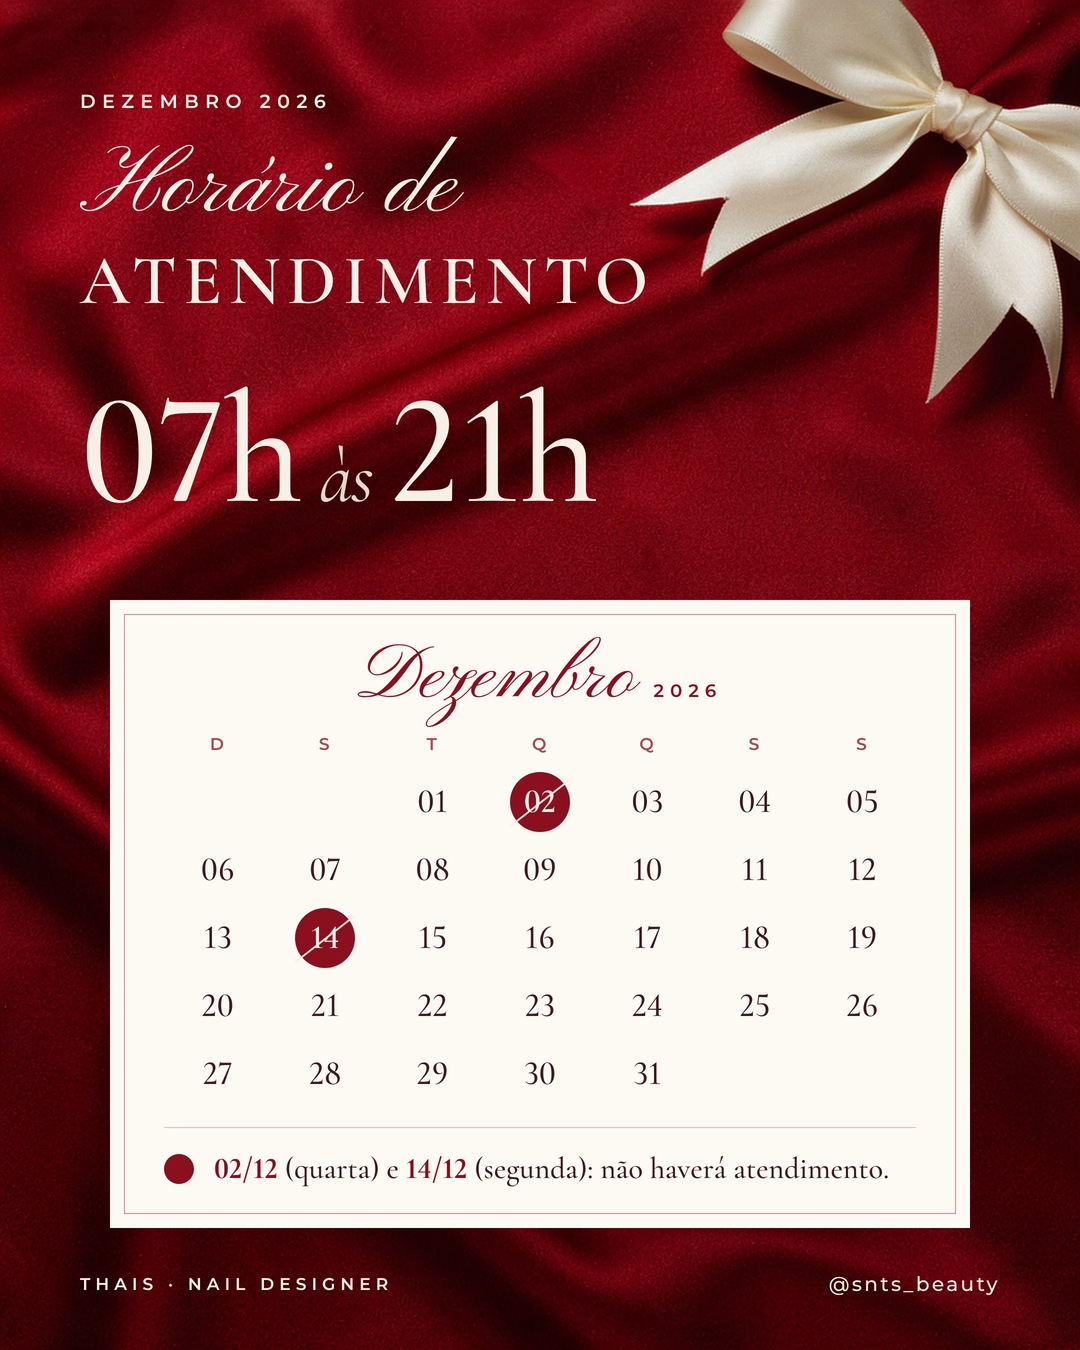
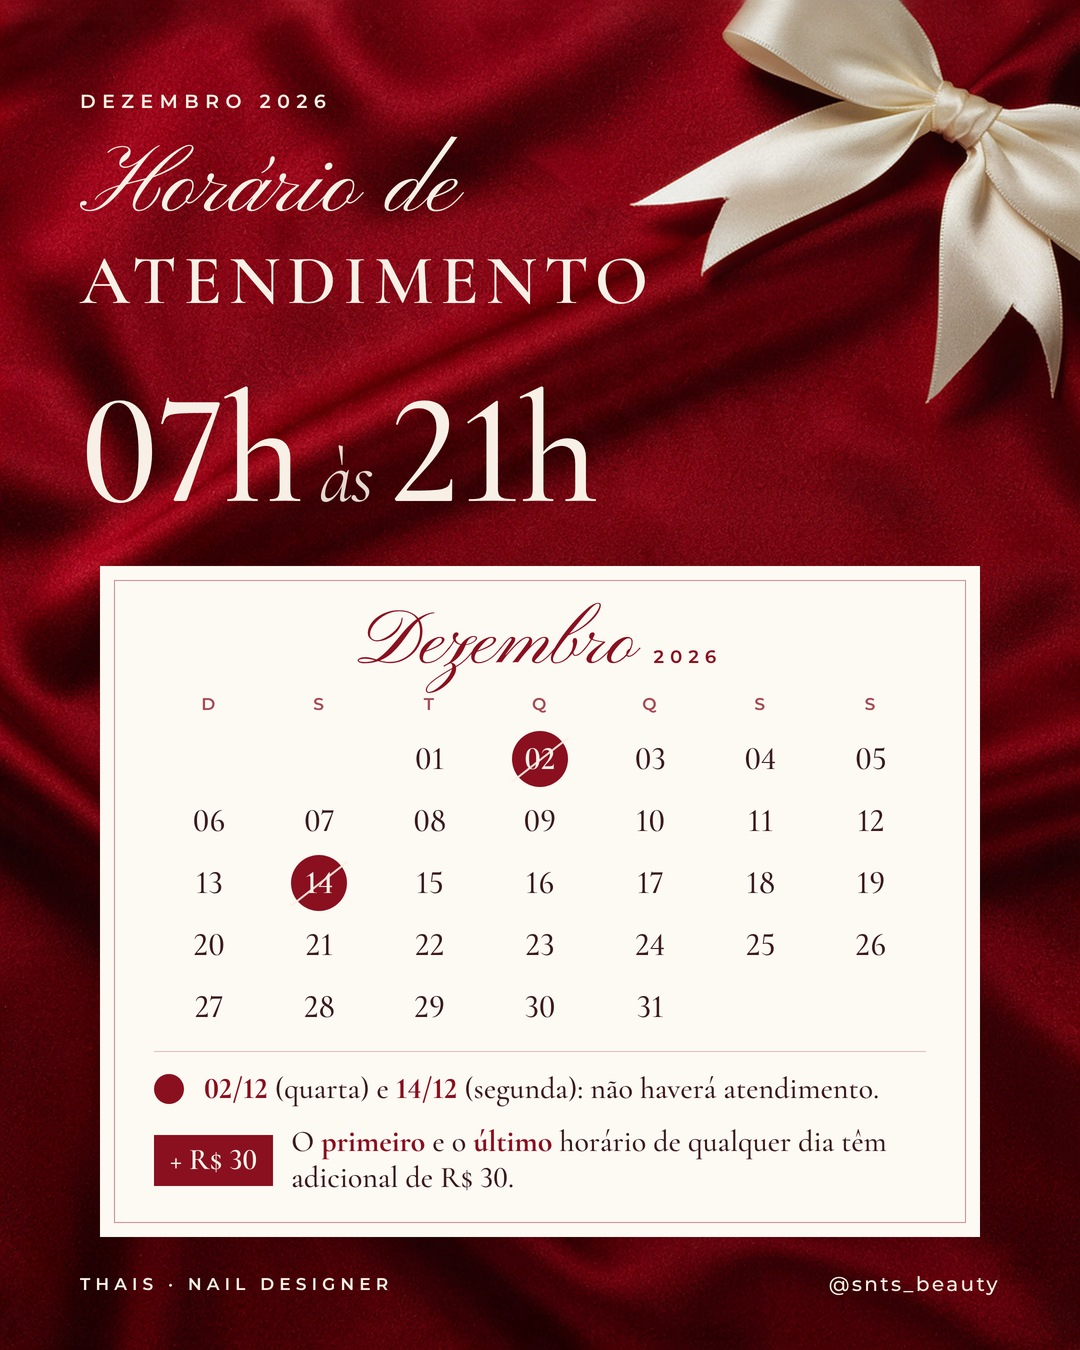
docs: carrossel @snts_beauty, adicional de R$ 30 no primeiro e no último horário
Claude-Session: https://claude.ai/code/session_01C7Fqj9PsLGVunGevFmCeCm

diff --git a/docs/agenda-dezembro-unhas/gerador/style.css b/docs/agenda-dezembro-unhas/gerador/style.css
@@ -71,20 +71,20 @@ body { font-feature-settings: "lnum" 1; font-variant-numeric: lining-nums; font-
 .hor .horas { left: 0; right: 0; top: 372px; text-align: center; color: var(--creme); font: 500 158px/1 var(--serif); letter-spacing: -.01em; }
 .hor .horas em { font: italic 400 76px/1 var(--serif); margin: 0 18px; opacity: .9; }
 .hor .horas-leg { left: 0; right: 0; top: 530px; display: flex; justify-content: center; gap: 250px; color: var(--rose); }
-.cal { position: absolute; left: 110px; right: 110px; top: 600px; background: var(--perola); padding: 40px 54px 40px; box-shadow: 0 30px 60px rgba(40,0,6,.35); }
+.cal { position: absolute; left: 100px; right: 100px; top: 566px; background: var(--perola); padding: 40px 54px 40px; box-shadow: 0 30px 60px rgba(40,0,6,.35); }
 .cal::before { content: ''; position: absolute; inset: 14px; border: 1.5px solid rgba(138,16,32,.45); pointer-events: none; }
-.cal__cab { display: flex; align-items: baseline; justify-content: center; gap: 18px; color: var(--cereja); margin-bottom: 18px; }
+.cal__cab { display: flex; align-items: baseline; justify-content: center; gap: 18px; color: var(--cereja); margin-bottom: 12px; }
 .cal__cab .script { font-size: 78px; }
 .cal__cab .rotulo { font-size: 18px; }
 .cal__grade { display: grid; grid-template-columns: repeat(7, 1fr); row-gap: 6px; text-align: center; }
 .cal__grade .sem { font: 600 17px/1 var(--sans); letter-spacing: .1em; color: var(--cereja); opacity: .75; padding-bottom: 12px; }
-.cal__grade .d { font: 500 34px/62px var(--serif); color: var(--tinta); height: 62px; position: relative; }
+.cal__grade .d { font: 500 33px/56px var(--serif); color: var(--tinta); height: 56px; position: relative; }
 .cal__grade .d.fora { visibility: hidden; }
 .cal__grade .d.folga { color: var(--creme); }
-.cal__grade .d span { position: relative; display: inline-block; width: 60px; height: 60px; line-height: 60px; border-radius: 50%; }
+.cal__grade .d span { position: relative; display: inline-block; width: 56px; height: 56px; line-height: 56px; border-radius: 50%; }
 .cal__grade .d.folga span { background: var(--cereja); color: var(--creme); font-weight: 600; }
 .cal__grade .d.folga span::after { content: ''; position: absolute; left: -8px; right: -8px; top: 50%; height: 2px; background: var(--creme); transform: rotate(-38deg); opacity: .9; }
-.cal__leg { margin-top: 22px; padding-top: 22px; border-top: 1px solid rgba(138,16,32,.25); display: flex; align-items: center; gap: 20px; }
+.cal__leg { margin-top: 16px; padding-top: 18px; border-top: 1px solid rgba(138,16,32,.25); display: flex; align-items: center; gap: 20px; }
 .cal__leg .bola { width: 30px; height: 30px; border-radius: 50%; background: var(--cereja); flex: none; }
 .cal__leg p { font: 500 30px/1.25 var(--serif); color: var(--tinta); }
 .cal__leg p b { color: var(--cereja); font-weight: 700; }
@@ -111,3 +111,8 @@ body { font-feature-settings: "lnum" 1; font-variant-numeric: lining-nums; font-
 /* horários: título à esquerda, longe do laço */
 .hor .tit { left: 80px !important; right: auto !important; text-align: left !important; }
 .hor .horas { left: 80px !important; right: auto !important; text-align: left !important; }
+
+.cal__taxa { margin-top: 16px; display: flex; align-items: center; gap: 18px; }
+.cal__taxa .selo { flex: none; background: var(--cereja); color: var(--creme); font: 600 30px/1 var(--serif); padding: 10px 16px 11px; white-space: nowrap; }
+.cal__taxa p { font: 500 30px/1.22 var(--serif); color: var(--tinta); }
+.cal__taxa p b { color: var(--cereja); font-weight: 700; }

diff --git a/docs/agenda-dezembro-unhas/README.md b/docs/agenda-dezembro-unhas/README.md
@@ -46,7 +46,7 @@ Mais uma referência (só referência, **não copiar**): https://www.instagram.c
 - `gerador/`: o que monta as lâminas. Para refazer: `cd gerador && NODE_PATH=$(npm root -g) node build.mjs && python3 reduz.py .` (ou `node build.mjs 3` para uma só). Renderiza em 2x e reduz para 1080 x 1350; sai em `gerador/out/`.
 
 1. **Capa:** "Agenda de" + DEZEMBRO inteiro acima da cabeça dela (o Lucas pediu o título visível e harmônico, nada escondido atrás da foto). Foto da blusa preta e batom vermelho, recortada; o laço da frente é recortado do próprio fundo e esconde o corte reto do ombro. "Tudo o que você precisa saber para garantir o seu horário".
-2. **Horário de atendimento:** 07h às 21h e o calendário de dezembro de 2026 (começa numa terça, semana a partir do domingo) com 02/12 (quarta) e 14/12 (segunda) marcados: não haverá atendimento.
+2. **Horário de atendimento:** 07h às 21h e o calendário de dezembro de 2026 (começa numa terça, semana a partir do domingo) com 02/12 (quarta) e 14/12 (segunda) marcados: não haverá atendimento. Embaixo, no mesmo cartão: "+ R$ 30 · O primeiro e o último horário de qualquer dia têm adicional de R$ 30".
 3. **Valores · Extensão e gel:** aplicação simples/decorada, manutenção simples/decorada, banho de gel, manutenção banho de gel e a faixa "Manutenção de unhas feitas por outra profissional + R$ 30".
 4. **Valores · Esmaltação e tradicionais:** esmaltação em gel (pé e mão), manicure, pedicure e combo tradicional.
 5. **Final:** foto da blusa azul **quadrada** (o Lucas pediu sem o arco), "Garanta o seu horário", "Agendamentos e informações pelo direct", @snts_beauty.
